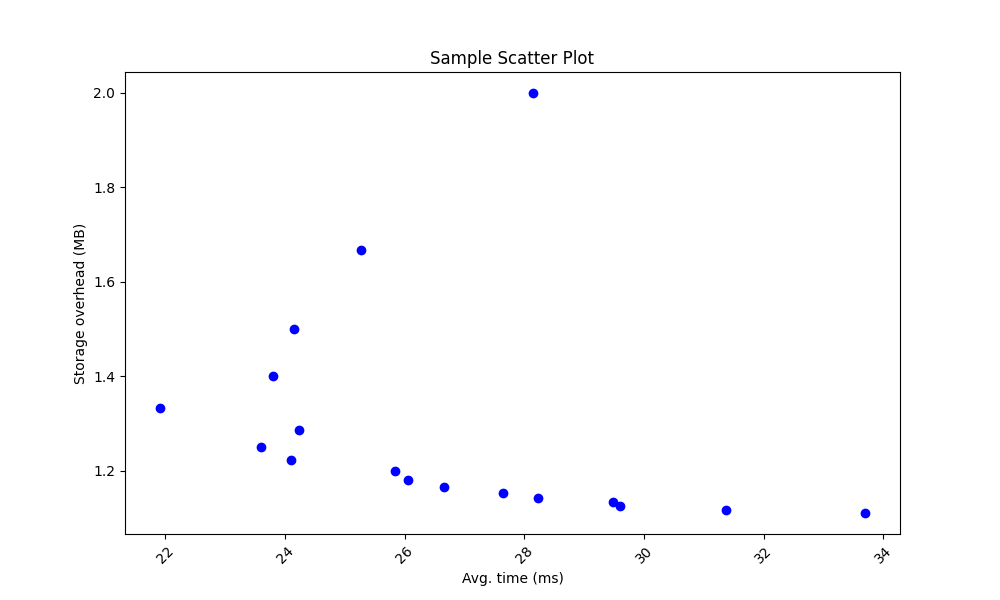
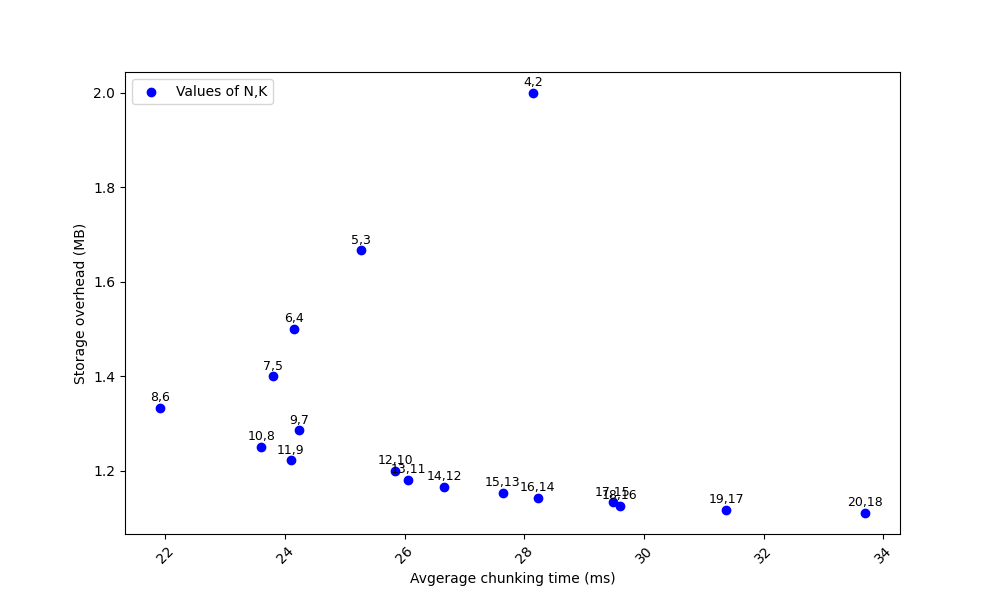
plots modifications

diff --git a/test/test_linearregression.py b/test/test_linearregression.py
@@ -32,19 +32,21 @@ for s in pred.real_records.sizes:
     #print(X_str)
     plt.figure(figsize=(10, 6))  # width: 10 inches, height: 6 inches
 
-    plt.scatter(time_data, size_data, color = "blue")
+    plt.scatter(time_data, size_data, color = "blue", label="Values of N,K")
     
     for i in range(len(time_data)):
-        plt.annotate(labels[i], (time_data[i], size_data[i]), textcoords="offset points", xytext=(0,10), ha='center', fontsize=9)
+        plt.annotate(labels[i], (time_data[i], size_data[i]), textcoords="offset points", xytext=(0,5), ha='center', fontsize=9)
 
     
     # Add title and labels
-    plt.title('Sample Scatter Plot')
-    plt.xlabel('Avg. time (ms)')
+    plt.xlabel('Avgerage chunking time (ms)')
     plt.ylabel('Storage overhead (MB)')
     plt.xticks(rotation=45)
+    
+    plt.legend(loc="upper left")
 
-    plt.savefig(f"scatter_{s}MBv2.png")
+
+    plt.savefig(f"plot/ida_overheads/scatter_{s}MB.png")
     plt.clf()
 
 #for d in data.index:
